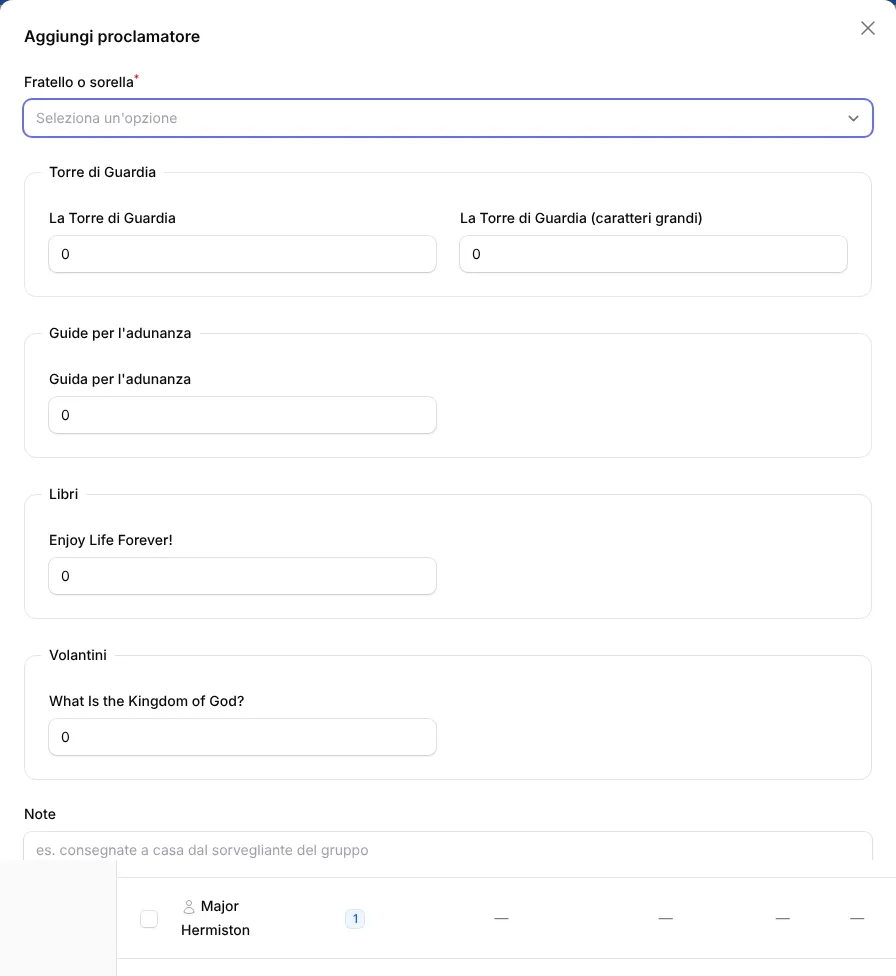
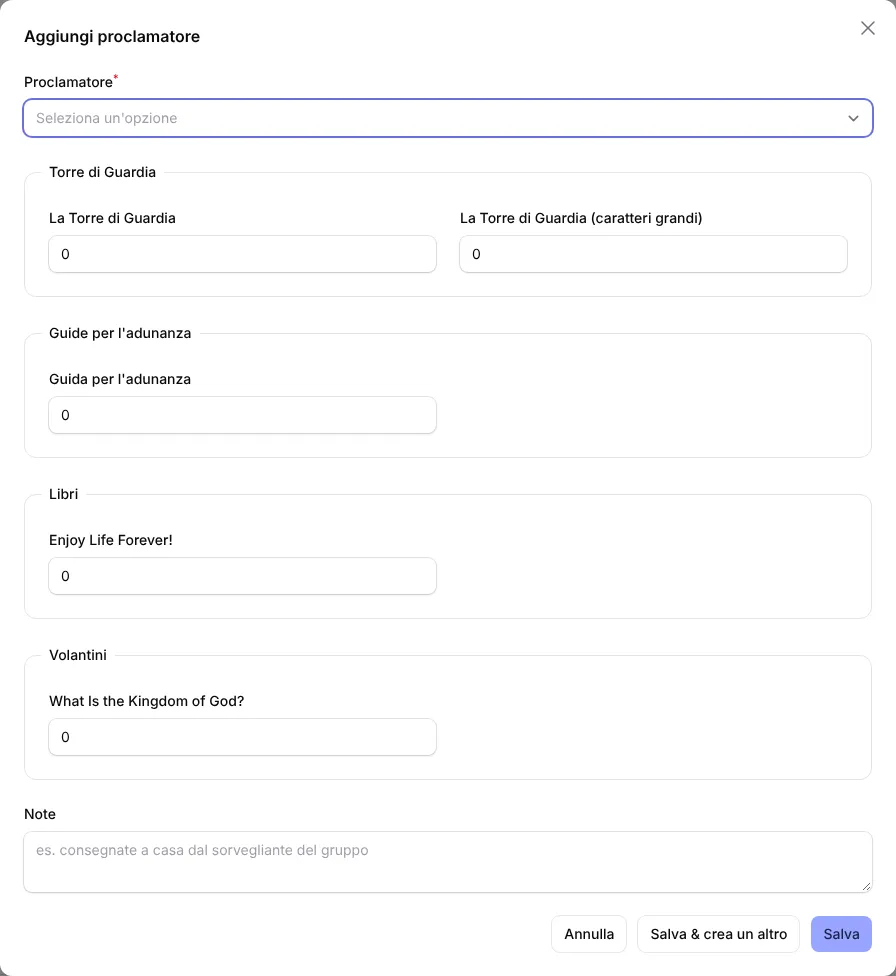
fix(publications): label field "Publisher"
"Proclamatore" in Italian, as in the rest of the application.

diff --git a/tests/Feature/PeriodicalSubscriptionsTest.php b/tests/Feature/PeriodicalSubscriptionsTest.php
@@ -12,6 +12,7 @@ use App\Models\User;
 use Database\Seeders\FakePeriodicalSubscriptionSeeder;
 use Filament\Actions\Testing\TestAction;
 use Filament\Facades\Filament;
+use Filament\Forms\Components\Select;
 use Illuminate\Support\Facades\Notification;
 use Livewire\Livewire;
 
@@ -100,6 +101,14 @@ test('a publisher can be added with the copies of each publication', function ()
         ->and($subscription->quantityOf($this->workbook))->toBe(1)
         ->and($subscription->items)->toHaveCount(2)
         ->and($subscription->notes)->toBe('Delivered at home');
+});
+
+test('the publisher is chosen in a field named as in the rest of the application', function () {
+    Livewire::test(ManagePeriodicalSubscriptions::class)
+        ->mountAction(TestAction::make('create'))
+        ->assertFormFieldExists('user_id', fn (Select $field): bool => $field->getLabel() === __('filament-resources.periodical_subscription.field_user'));
+
+    expect(__('filament-resources.periodical_subscription.field_user', [], 'it'))->toBe('Proclamatore');
 });
 
 test('a publisher must receive at least one copy', function () {

diff --git a/lang/es/filament-resources.php b/lang/es/filament-resources.php
@@ -418,7 +418,7 @@ return [
         'navigation_label' => 'Publicaciones en papel',
         'model_label' => 'publicador que recibe publicaciones',
         'plural_model_label' => 'Publicaciones en papel',
-        'field_user' => 'Hermano o hermana',
+        'field_user' => 'Publicador',
         'field_notes' => 'Notas',
         'field_notes_placeholder' => 'p. ej. se las entrega en casa el superintendente del grupo',
         'column_user' => 'Nombre',

diff --git a/lang/it/filament-resources.php b/lang/it/filament-resources.php
@@ -418,7 +418,7 @@ return [
         'navigation_label' => 'Pubblicazioni su carta',
         'model_label' => 'proclamatore che riceve pubblicazioni',
         'plural_model_label' => 'Pubblicazioni su carta',
-        'field_user' => 'Fratello o sorella',
+        'field_user' => 'Proclamatore',
         'field_notes' => 'Note',
         'field_notes_placeholder' => 'es. consegnate a casa dal sorvegliante del gruppo',
         'column_user' => 'Nome',

diff --git a/lang/en/filament-resources.php b/lang/en/filament-resources.php
@@ -417,7 +417,7 @@ return [
         'navigation_label' => 'Paper publications',
         'model_label' => 'publisher receiving publications',
         'plural_model_label' => 'Paper publications',
-        'field_user' => 'Brother or sister',
+        'field_user' => 'Publisher',
         'field_notes' => 'Notes',
         'field_notes_placeholder' => 'e.g. delivered at home by his group overseer',
         'column_user' => 'Name',

diff --git a/docs/user-documentation/it/publications/periodicals.md b/docs/user-documentation/it/publications/periodicals.md
@@ -18,7 +18,7 @@ i totali seguono i filtri e la ricerca.
 ## Aggiungere un proclamatore
 
 1. Clicca **Aggiungi proclamatore**.
-2. Scegli il **Fratello o sorella** (sono elencati solo quelli non ancora presenti).
+2. Scegli il **Proclamatore** (sono elencati solo quelli non ancora presenti).
 3. Inserisci le copie di ogni pubblicazione, raggruppate per categoria: lascia `0` per quelle che non riceve. Serve
    almeno una copia.
 4. Se vuoi, aggiungi delle **Note** (ad esempio chi gliele consegna).

diff --git a/docs/user-documentation/en/publications/periodicals.md b/docs/user-documentation/en/publications/periodicals.md
@@ -18,7 +18,7 @@ the filters and the search.
 ## Adding a publisher
 
 1. Click **Add publisher**.
-2. Choose the **Brother or sister** (only the ones not already in the list are shown).
+2. Choose the **Publisher** (only the ones not already in the list are shown).
 3. Enter the copies of each publication, grouped by category: leave `0` for the ones not received. At least one copy
    is needed.
 4. Optionally, add some **Notes** (e.g. who delivers them).
